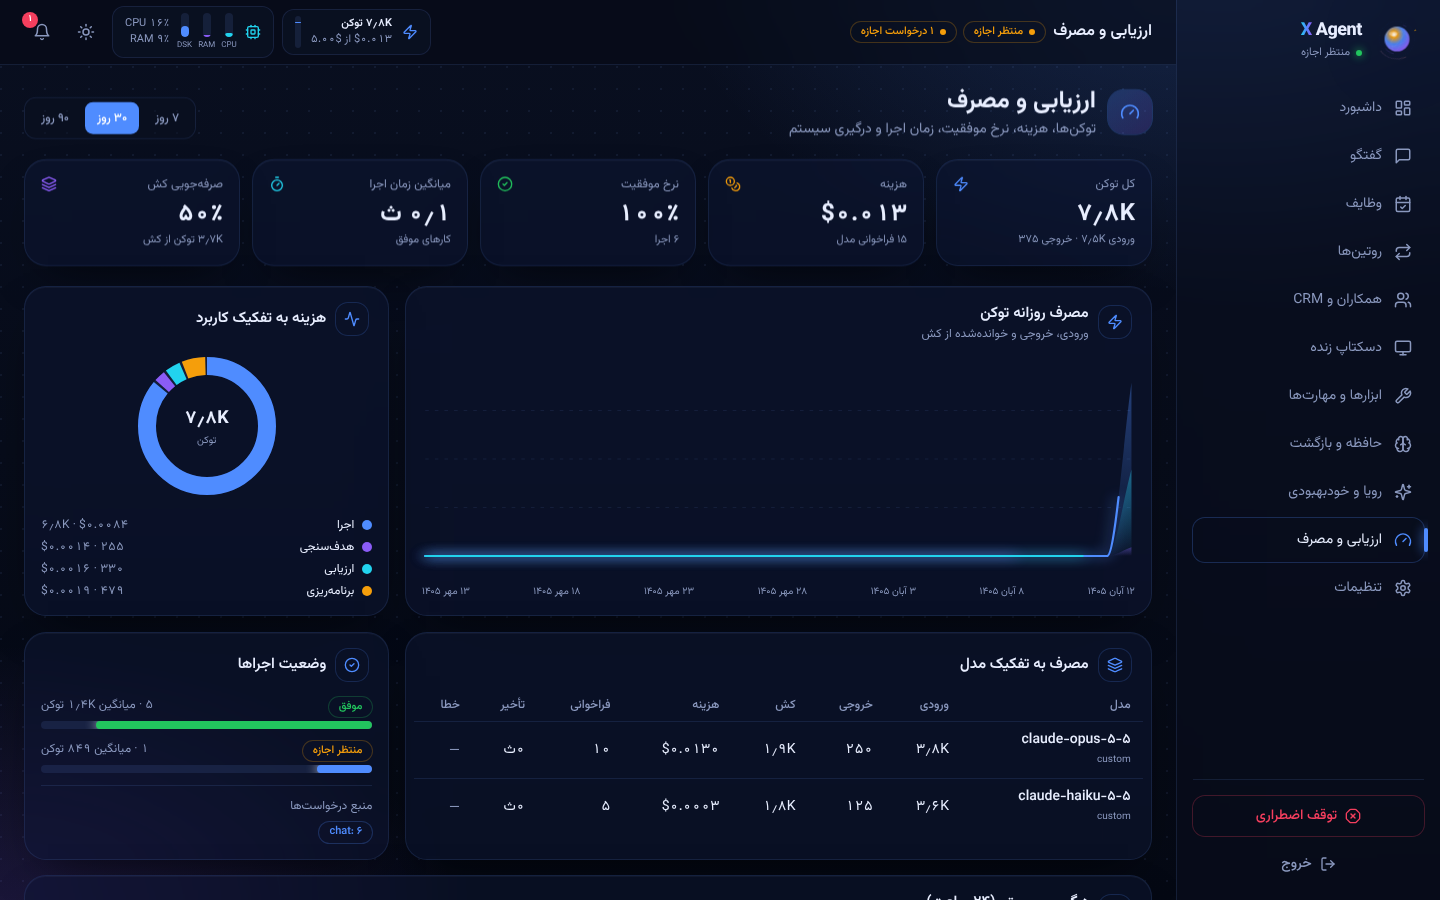
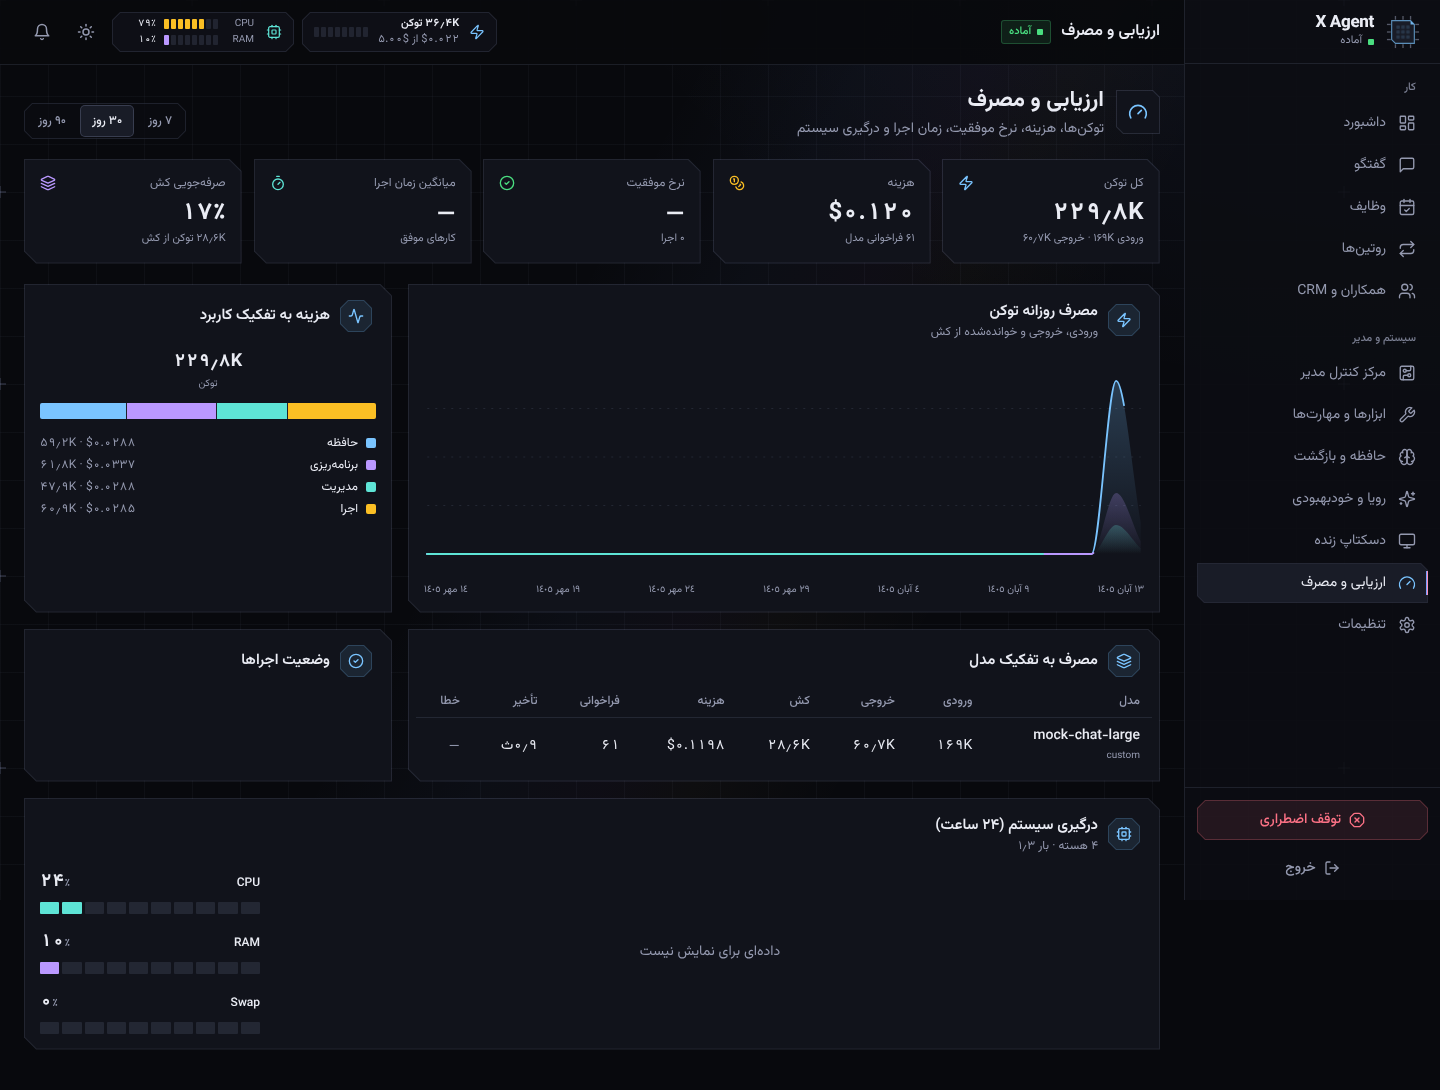
پنل: چیدمان سنجهای پدی صفحه مصرف؛ تصاویر مستندات با طراحی جدید
Claude-Session: https://claude.ai/code/session_01Nyg3R5pmwm92NSVmhZ2wSk

diff --git a/apps/web/src/pages/Usage.tsx b/apps/web/src/pages/Usage.tsx
@@ -129,14 +129,14 @@ export default function Usage() {
 
       <Card className="mt-4">
         <CardHeader title="درگیری سیستم (۲۴ ساعت)" icon={<Cpu className="h-4 w-4" />} sub={`${toFaDigits(cur.cpu_count || 0)} هسته · بار ${faNum(cur.load1, 2)}`} />
-        <div className="grid gap-4 p-4 lg:grid-cols-[1fr_auto]">
+        <div className="grid gap-4 p-4 lg:grid-cols-[minmax(0,1fr)_220px]">
           <AreaChart data={live} height={200} max={100} format={(v) => `${faNum(v)}٪`}
             series={[{ key: "cpu", label: "CPU", color: CHART.cpu }, { key: "mem", label: "RAM", color: CHART.mem }, { key: "disk", label: "دیسک", color: CHART.disk }]}
             xLabel={(d) => fmtTime(d.ts)} />
-          <div className="grid grid-cols-3 gap-2 lg:grid-cols-1">
-            <Gauge value={cur.cpu} label="CPU" size={90} />
-            <Gauge value={cur.mem} label="RAM" size={90} color="rgb(var(--accent))" />
-            <Gauge value={cur.swap} label="Swap" size={90} color="rgb(var(--warning))" />
+          <div className="grid grid-cols-1 gap-4 sm:grid-cols-3 lg:grid-cols-1 lg:content-center">
+            <Gauge value={cur.cpu} label="CPU" />
+            <Gauge value={cur.mem} label="RAM" color="rgb(var(--accent))" />
+            <Gauge value={cur.swap} label="Swap" color="rgb(var(--warning))" />
           </div>
         </div>
       </Card>

diff --git a/README.md b/README.md
@@ -5,17 +5,18 @@
 X Agent یک ایجنت هوش مصنوعی **خودمیزبان، فارسی و آماده استقرار** است که روی VPS شما اجرا میشود و وقتی گوشی و کامپیوترتان خاموش است هم به کار ادامه میدهد. همه کدها، حافظهها، فایلها، کلیدها و دادهها روی سرور خودتان و ۱۰۰٪ تحت مالکیت شماست.
 
 <p align="center">
-  <img src="docs/screenshots/dashboard-dark.png" width="49%" alt="داشبورد تاریک" />
+  <img src="docs/screenshots/dashboard-dark.png" width="49%" alt="داشبورد: نقشه زنده تراشه ایجنت (تاریک)" />
   <img src="docs/screenshots/dashboard-light.png" width="49%" alt="داشبورد روشن" />
 </p>
 <p align="center">
-  <img src="docs/screenshots/chat-dark.png" width="49%" alt="گفتگو با مراحل زنده و کارت اجازه" />
+  <img src="docs/screenshots/control-dark.png" width="49%" alt="مرکز کنترل مدیر: کارمندان" />
   <img src="docs/screenshots/usage-dark.png" width="49%" alt="ارزیابی و مصرف" />
 </p>
 <p align="center">
-  <img src="docs/screenshots/mobile-dark.png" width="24%" alt="موبایل تاریک" />
-  <img src="docs/screenshots/mobile-chat-light.png" width="24%" alt="گفتگو موبایل روشن" />
+  <img src="docs/screenshots/mobile-control-dark.png" width="24%" alt="موبایل: مرکز کنترل" />
+  <img src="docs/screenshots/mobile-chat-dark.png" width="24%" alt="موبایل: گفتگو" />
 </p>
+<p align="center"><sub>تصاویر از اجرای محلی با داده آزمایشی (ارائهدهنده Mock، بدون کلید واقعی).</sub></p>
 
 ---
 
